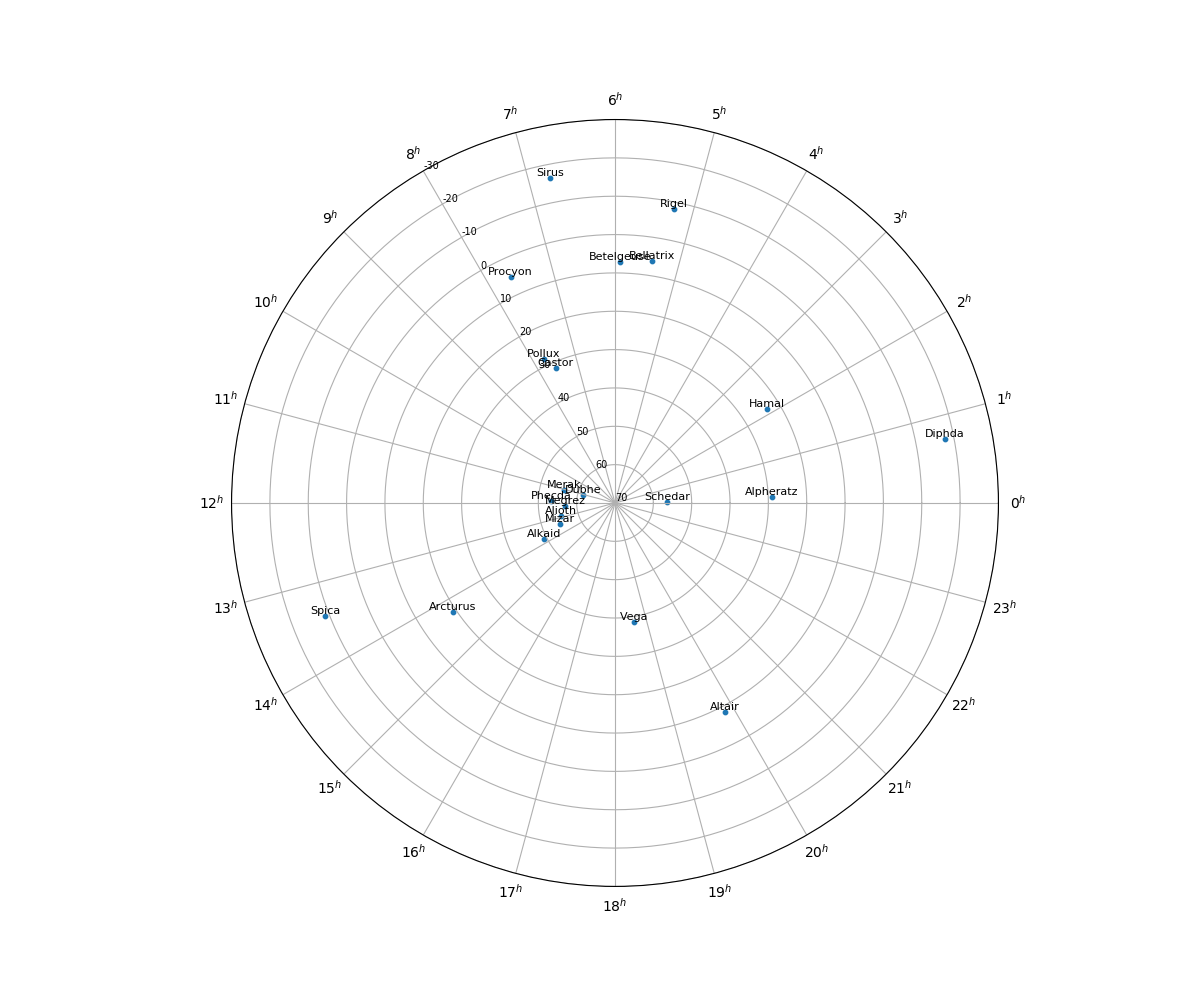
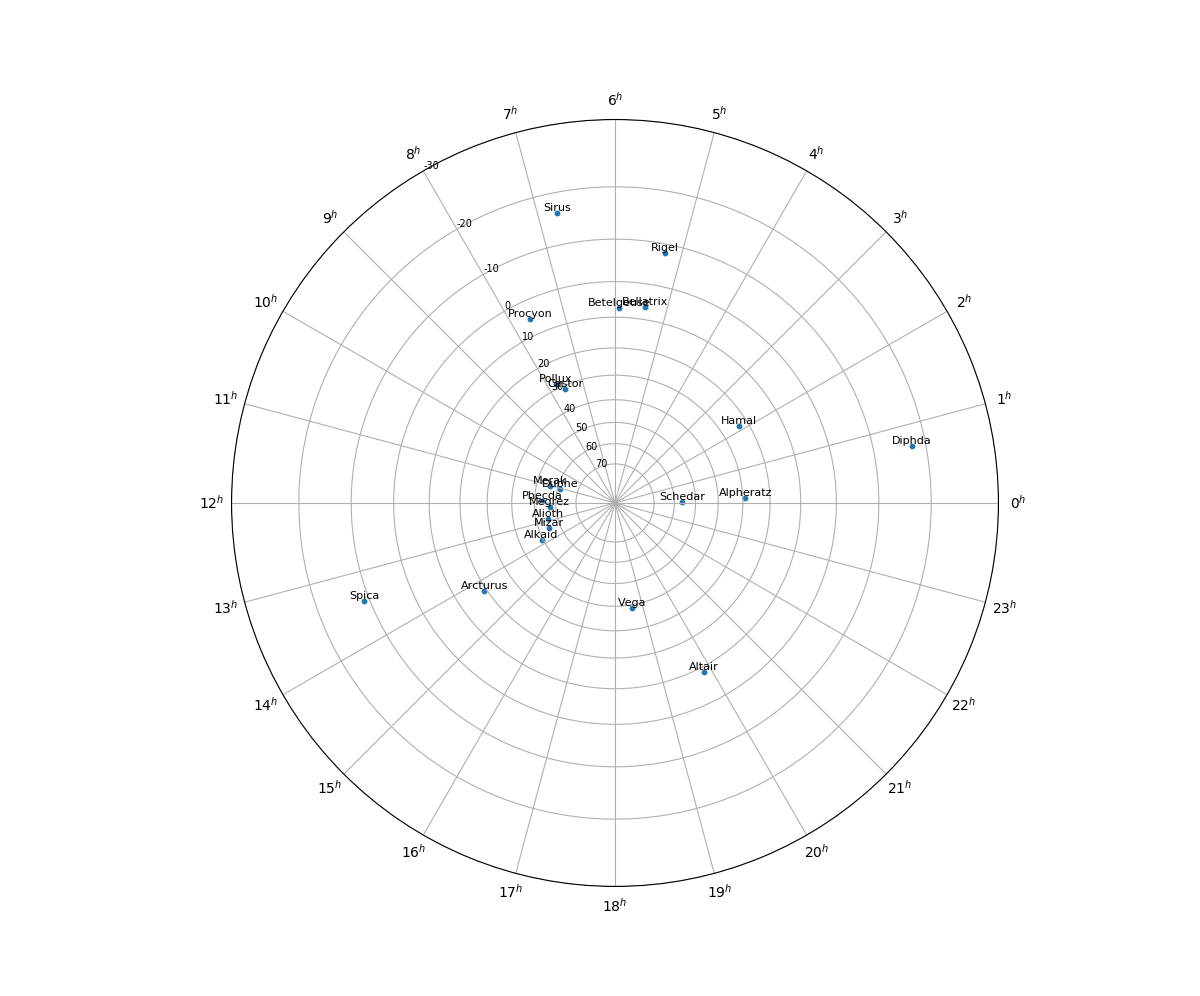
plot stars based on adjusted declination

diff --git a/page_x_astrolabe/generate_star_chart.py b/page_x_astrolabe/generate_star_chart.py
@@ -29,10 +29,9 @@ def convertRAhrtoRadians(star_list):
 		star[1] = ra_in_radians
 	return star_list
 
-def plotCircluar(star_list, northOrSouth, displayStarNamesLabels, displayDeclinationNumbers, total_ruler_length):
+def plotCircluar(star_list, northOrSouth, displayStarNamesLabels, displayDeclinationNumbers, total_ruler_length, increment_by):
 	# plot star chart as a circular graph
-	#fig = plt.figure(figsize=(12,12), dpi=100)
-	fig = plt.figure(figsize=(10,10), dpi=100)
+	fig = plt.figure(figsize=(12,12), dpi=100)
 	ax = fig.subplots(subplot_kw={'projection': 'polar'})
 
 	# Set Right Ascension (astronomical 'longitude') as X
@@ -49,57 +48,34 @@ def plotCircluar(star_list, northOrSouth, displayStarNamesLabels, displayDeclina
 	# Set Declination (astronomical 'latitude') as Y
 
 	# Split up chart into North/South hemisphere
-	if northOrSouth == "Both":
-		declination_values = np.arange(full_declination_min, full_declination_max+1, 10) # +1 to show max value in range
+	if northOrSouth == "Full":
+		declination_values = np.arange(full_declination_min, full_declination_max+1, 5) # +1 to show max value in range
 		min_dec_value = full_declination_min
 		max_dec_value = full_declination_max
 	if northOrSouth == "North":
-		declination_values = np.arange(northern_declination_min, northern_declination_max+1, 10) # +1 to show max value in range
+		declination_values = np.arange(northern_declination_min, northern_declination_max+1, 5) # +1 to show max value in range
 		min_dec_value = northern_declination_min
 		max_dec_value = northern_declination_max
 	if northOrSouth == "South":
-		declination_values = np.arange(southern_declination_min, southern_declination_max+1, 10) # +1 to show max value in range
+		declination_values = np.arange(southern_declination_min, southern_declination_max+1, 5) # +1 to show max value in range
 		min_dec_value = southern_declination_min
 		max_dec_value = southern_declination_max
 
-	# conversion length of a ruler for -90 to 90
-	full_ruler_length_180 = (180 * (total_ruler_length/2)) / (abs(min_dec_value) + abs(max_dec_value))
-	print("Length of full ratio ruler from {0} (1/2 {1}) = {2}".format(total_ruler_length, total_ruler_length/2, full_ruler_length_180))
-
 	# Store the ruler positions based on degrees and the ratio of the ruler
-	ruler_position_dict = declination_script.triggerDeclinationCalculations(full_ruler_length_180,
-																			min_dec_value, max_dec_value)
-	ruler_ratio = ruler_position_dict.pop("RATIO") # remove ratio value and store
-
-	# add values to get the distance for ruler in max-min range
-	degree_ruler_for_min_max_range_dict = {} # dictionary for degrees in max/min range and their lengths
-	ruler_position_for_n_total = 0
-
-	# create a ruler for the range used instead of the full range
-	from collections import OrderedDict
-	ordered_dict_declination = OrderedDict(reversed(sorted(ruler_position_dict.items(), key=lambda x:x[0])))
-	for n_angle, ruler_length in ordered_dict_declination.items(): # add values from the largest to the smallest to account for declination lines
-		# convert to be within range of ruler/2
-		ruler_position_for_n_total += ruler_length # add lengths as iterating
-		percent_of_total = ruler_position_for_n_total / sum(ordered_dict_declination.values()) # find percentage of full length
-		ruler_position = percent_of_total * total_ruler_length/2 # convert to fit on the ruler of x length
-		print("Degree {0} = {1} = {2:.4f}% =  {3:4f} [saved]".format(n_angle, 
-													ruler_length,
-													percent_of_total,
-													ruler_position))
-		degree_ruler_for_min_max_range_dict[n_angle] = round(ruler_position, 4)
+	ruler_position_dict = declination_script.triggerDeclinationCalculations(total_ruler_length,
+																			min_dec_value, max_dec_value, increment_by)
 
 	# display declination lines on the chart from -min to +max
 	def displayDeclinationMarksOnAxis(declination_values, dec_min, dec_max):
 		# set declination marks based on the ruler to space out lines
-		ruler_declination_position = list(degree_ruler_for_min_max_range_dict.values())
-		ruler_declination_labels = list(degree_ruler_for_min_max_range_dict.keys())
-		both_label_values = [list(x) for x in zip(ruler_declination_position, ruler_declination_labels)]
+		ruler_declination_position = list(ruler_position_dict.values())
+		ruler_declination_labels = list(ruler_position_dict.keys())
+		#both_label_values = [list(x) for x in zip(ruler_declination_position, ruler_declination_labels)] # for testing
 		ax.set_ylim(0, max(ruler_declination_position))
 		if displayDeclinationNumbers: # display axis
 			plt.yticks(ruler_declination_position, fontsize=7)
-			ax.set_yticklabels(both_label_values)
-			ax.set_rlabel_position(270)
+			ax.set_yticklabels(ruler_declination_labels)
+			ax.set_rlabel_position(120)
 		else:
 			plt.yticks(ruler_declination_labels, fontsize=0) # do not display axis
 
@@ -112,31 +88,18 @@ def plotCircluar(star_list, northOrSouth, displayStarNamesLabels, displayDeclina
 		displayDeclinationMarksOnAxis(declination_values, southern_declination_min, southern_declination_max)
 
 	print("\nRange of Declination: {0} to {1}".format(min_dec_value, max_dec_value))
+	radius_of_circle = declination_script.calculateRadiusOfCircle(declination_min, total_ruler_length)
 	# convert to x and y values for stars
 	x_star_labels = []
 	x_ra_values = []
 	y_dec_values = []
 	for star in star_list:
-		x_star_labels.append(star[0])
-		x_ra_values.append(star[1])
-
-		ruler_position = star[2]
-		#if star[2] <= max_dec_value and star[2] >= min_dec_value: # within range of declination being displayed
-		#	if star[2] > 0:
-		#		nearest_five = star[2] - (star[2]%5) # round to the nearest length to round (55.56 to 55)
-		#	else:
-		#		nearest_five = star[2]  - (star[2]%5) + 5 # round to nearest length to round when negatigve (-15 instead of -20)
-		#	length_at_nearest_five = degree_ruler_for_min_max_range_dict[nearest_five]
-		#	declination_length_of_angle = declination_script.calculateLength(star[2])*ruler_ratio
-		#	ruler_position = length_at_nearest_five + declination_length_of_angle
-		#	print("{0}: {1} = {2:4f}({3}) + {4:4f} = {5:4f}".format(star[0], star[2], 
-		#														length_at_nearest_five, nearest_five, 
-		#														declination_length_of_angle, ruler_position))
-		#else:
-		#	ruler_position = -1
-		#print("{0} : {1} = {2} = {3}".format(star[0], star[2], position_on_full_length_ruler, ruler_position))
-
-		y_dec_values.append(ruler_position)
+		ruler_position = declination_script.calculateLength(star[2], radius_of_circle) # convert degree to position on radius
+		print("{0}: {1} = {2:.4f}".format(star[0], star[2], ruler_position))
+		if star[2] > min_dec_value and star[2] < max_dec_value: # only display stars within range of declination values
+			x_star_labels.append(star[0])
+			x_ra_values.append(star[1])
+			y_dec_values.append(ruler_position)
 	ax.scatter(x_ra_values, y_dec_values, s=10)
 
 	# label stars (optional)
@@ -225,8 +188,10 @@ if __name__ == '__main__':
 	# Chart options
 	displayStarNames = True # display chart with star names (False/True)
 	displayDeclinationNumbers = True # display declination marks (False/True)
-	northOrSouth = "North" # options: "North", "South", "Both" (changes the declination range)
+	northOrSouth = "North" # options: "North", "South", "Full" (changes the declination range)
 	total_ruler_length = 30 # units (cut in half for each side of the ruler) (currently has to be even)
+	increment_by = 10 # increment degrees by (1, 5, 10)
+
 
 	# Calculate declination values
 	if northOrSouth == "North":
@@ -235,7 +200,7 @@ if __name__ == '__main__':
 	if northOrSouth == "South":
 		declination_min = southern_declination_min
 		declination_max = southern_declination_max
-	if northOrSouth == "Both":
+	if northOrSouth == "Full":
 		declination_min = full_declination_min
 		declination_max = full_declination_max
 
@@ -244,4 +209,5 @@ if __name__ == '__main__':
 				northOrSouth,
 				displayStarNames,
 				displayDeclinationNumbers,
-				total_ruler_length)
+				total_ruler_length,
+				increment_by)

diff --git a/page_x_astrolabe/generate_declination_ruler.py b/page_x_astrolabe/generate_declination_ruler.py
@@ -5,77 +5,59 @@ import numpy as np
 import matplotlib.pyplot as plt
 import math
 
-def triggerDeclinationCalculations(ruler_length, dec_min, dec_max):
+def triggerDeclinationCalculations(ruler_length, dec_min, dec_max, increment):
 	# access via script in generate_star_chart
 	graphPlotsegments = False # should plot the segments on a graph
 	total_ruler_length = ruler_length
-	declination_ruler_dict = calculateRuler(graphPlotsegments, total_ruler_length, dec_min, dec_max)
+	declination_ruler_dict = calculateRuler(graphPlotsegments, total_ruler_length, dec_min, dec_max, increment)
 	return declination_ruler_dict
 
-def calculateLength(angle_of_inclination):
+def calculateLength(angle_of_inclination, radius_of_circle):
 	# convert angle into length of radius
-	angle_in_radians = np.deg2rad((90 - angle_of_inclination)/2)
-	equation_of_length = math.tan(angle_in_radians) # calculated
+	#print("{0} = {1}".format(angle_of_inclination, 45-angle_of_inclination/2))
+	angle_in_radians = np.deg2rad(45 - angle_of_inclination/2)
+	equation_of_length = radius_of_circle * math.tan(angle_in_radians) # calculated
 	return equation_of_length
 
-def rulerRatioValue(declination_angles_ruler_list, length_of_the_ruler_to_be_used):
-	# returns the ratio of the ruler
-	# Calculate the ruler based on a ruler length and the range of the declinations
+def calculateRadiusOfCircle(min_dec, total_ruler_len):
+	# calculate radius of full circle from -80 to 80 where min dec is the radius of smaller circle
+	radius_of_circle_at_min_dec = (total_ruler_len/2) / math.tan(np.deg2rad(45 - min_dec/2))
+	print("Min declination = {0} for ruler length [{1} cm] = radius of {2:.4f}".format(min_dec, total_ruler_len/2, radius_of_circle_at_min_dec))
+	return radius_of_circle_at_min_dec
 
-	total_ruler_ratio_length = 0
-	for angle_declination in declination_angles_ruler_list:
-		#print("{0:.4f} + {1:.4f} = {2:.4f}".format(total_ruler_ratio_length, calculateLength(angle_declination), total_ruler_ratio_length + calculateLength(angle_declination)))
-		total_ruler_ratio_length += calculateLength(angle_declination)
-	#print("Total length of ruler with r = 1: {0}".format(total_ruler_ratio_length))
-	#print("Length of ruler to compare to (1/2 total) = {0} cm".format(length_of_the_ruler_to_be_used))
-
-	#print(declination_angles_ruler_list)
-	#print(len(declination_angles_ruler_list))
-	ratio_of_ruler = length_of_the_ruler_to_be_used / total_ruler_ratio_length
-	print("Ratio of ruler: {0} / {1} = {2}\n".format(length_of_the_ruler_to_be_used, total_ruler_ratio_length, ratio_of_ruler))
-	return ratio_of_ruler
-
-def calculateRuler(graphPlotSegments, total_ruler_length, declination_min, declination_max):
+def calculateRuler(graphPlotSegments, total_ruler_length, declination_min, declination_max, increment):
 	# define the length of each segment in ruler when radius = 1
-	x_angleOfDeclination = np.arange(-80,80,10) # declination max range from -80 to 80
+	x_angleOfDeclination = np.arange(-80, 80+1,increment) # declination max range from -80 to 80
 	y_lengthSegments = []
 
-	# convert segments into length segments
-	for angle_of_inclination in x_angleOfDeclination:
-		length_of_segment = calculateLength(angle_of_inclination)
-		#print("{0}  = {1:.4f}".format(angle_of_inclination, length_of_segment))
-		y_lengthSegments.append(length_of_segment)
+	declination_angles_ruler = np.arange(-80, 80+1, increment) # declination max range from -80 to 80
+	#print("\nDeclination Range of Angles: {0}".format(declination_angles_ruler))
+
+	# calculate full size of circle to find declination for smaller range
+	radius_of_circle = calculateRadiusOfCircle(declination_min, total_ruler_length)
+	ruler_position_dict = {} # dict: {degree : position_on_ruler }
+	for n_angle in declination_angles_ruler:
+		ruler_position = calculateLength(n_angle, radius_of_circle)
+		y_lengthSegments.append(ruler_position)
+		if n_angle >= declination_min and n_angle <= declination_max:
+			ruler_position_dict[n_angle] = round(ruler_position, 4)
+			print("Angle {0} = {1:.4f}".format(n_angle, ruler_position))
 
 	# optional graph of segments
 	if graphPlotSegments:
+		print(len(x_angleOfDeclination))
+		print(len(y_lengthSegments))
 		plotLengthSegments(x_angleOfDeclination, y_lengthSegments)
 
-	declination_angles_ruler = np.arange(-80, 80+1, 5) # declination max range from -80 to 80
-	#print("\nDeclination Range of Angles: {0}".format(declination_angles_ruler))
-
-	ratio_of_ruler = rulerRatioValue(declination_angles_ruler, total_ruler_length)
-	ruler_position_dict = {} # dict: {degree : position_on_ruler }
-	ruler_position_for_n = 0 # ruler position based on calculated length
-	ruler_position_for_n_total = 0 # ruler position based on length added up for each position (printed)
-	for n_angle in reversed(declination_angles_ruler): # add values from the largest to the smallest to account for declination lines
-		ruler_position_for_n = calculateLength(n_angle)*ratio_of_ruler # multipled by ratio to fit on ruler
-		ruler_position_for_n_total += calculateLength(n_angle)*ratio_of_ruler
-		print("Degree [Total]: {0} = {1:.4f}*{2:.4f} = {3:.4f} [saved] = [TOTAL] {4:.4f}".format(n_angle,
-																							calculateLength(n_angle),
-																							ratio_of_ruler,
-																							calculateLength(n_angle)*ratio_of_ruler,
-																							ruler_position_for_n_total
-																							))
-		if n_angle >= declination_min and n_angle <= declination_max:
-			ruler_position_dict[n_angle] = round(ruler_position_for_n, 4)
-	ruler_position_dict["RATIO"] = ratio_of_ruler # saves "RATIO" to be used in generate_star_chart.py
 	return ruler_position_dict
 
 def plotLengthSegments(x_degreeSegments, y_lengthSegments):
 	# plot segments (n) vs. Length of segments
+	fig = plt.figure(figsize=(10,10), dpi=100)
+	ax = fig.subplots()
 	plt.xticks(x_degreeSegments)
-	plt.title("Length of Declination Ruler Segments: tan(90 - angle) * (1/2)")
+	plt.title("Length of Declination Ruler Position: tan(45 - angle/2) * (1/2)")
 	plt.xlabel("Degree")
-	plt.ylabel("Length of Segments when r = 1")
+	plt.ylabel("Length")
 	plt.scatter(x_degreeSegments, y_lengthSegments)
 	plt.show()
